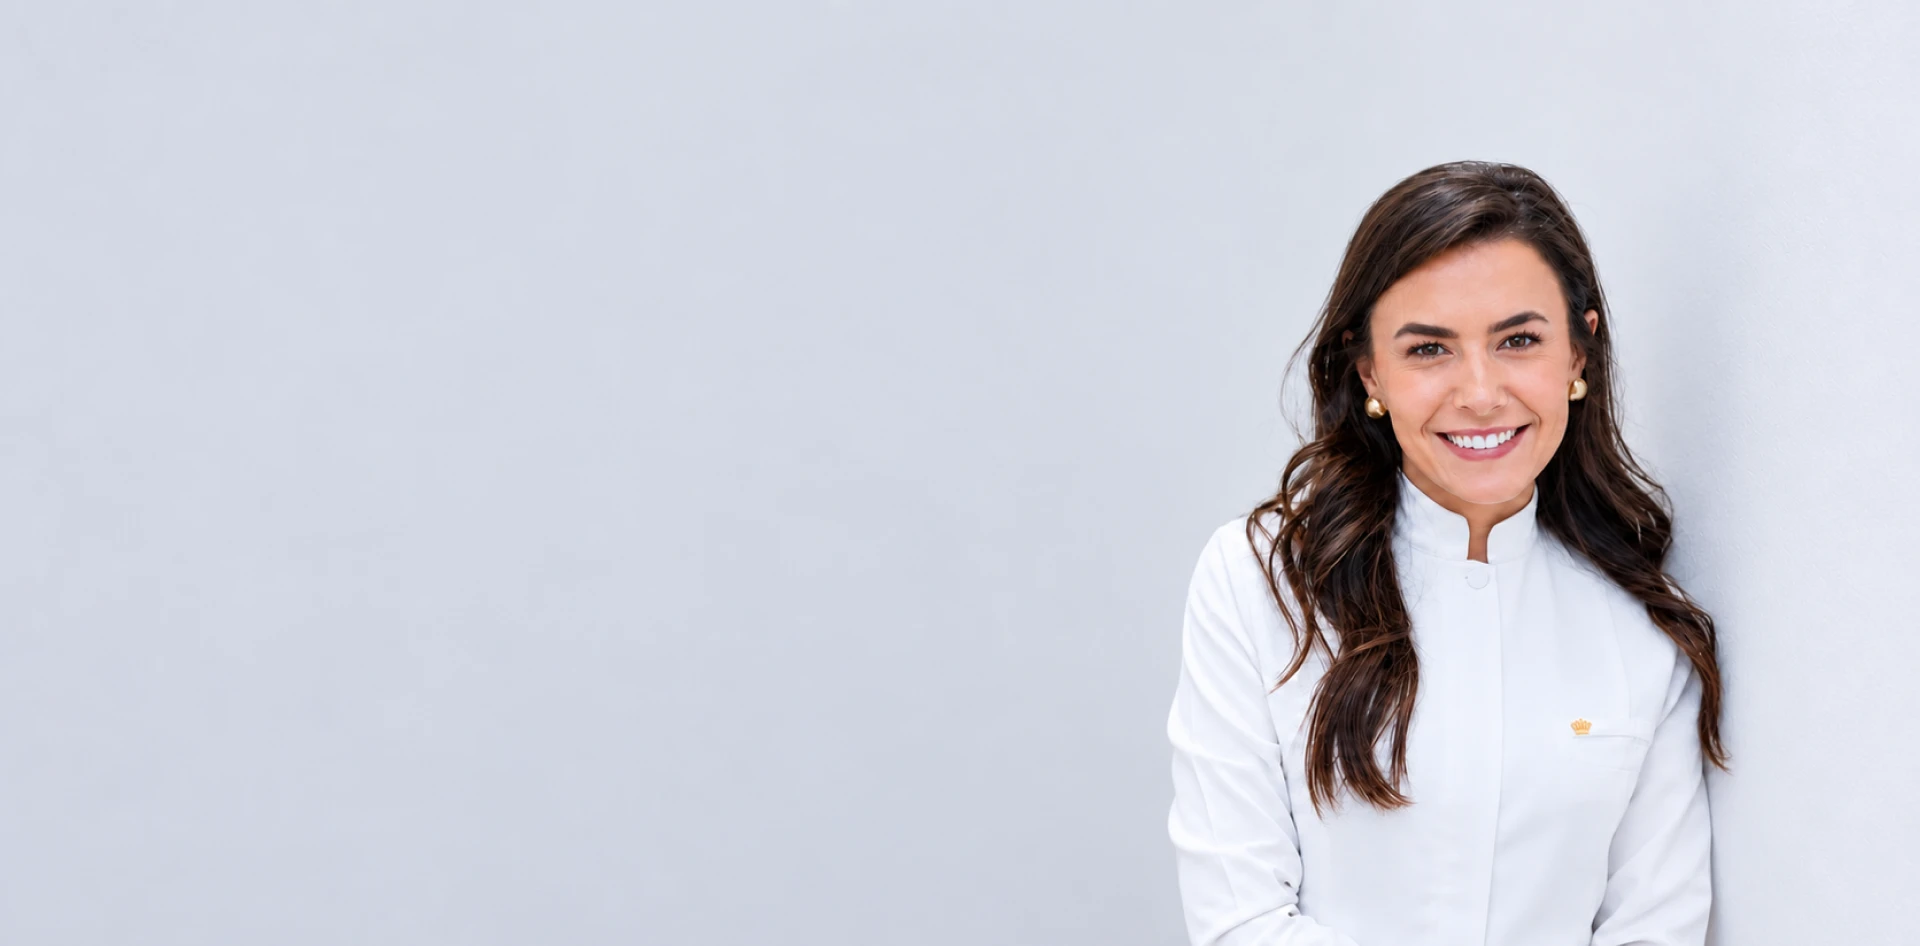
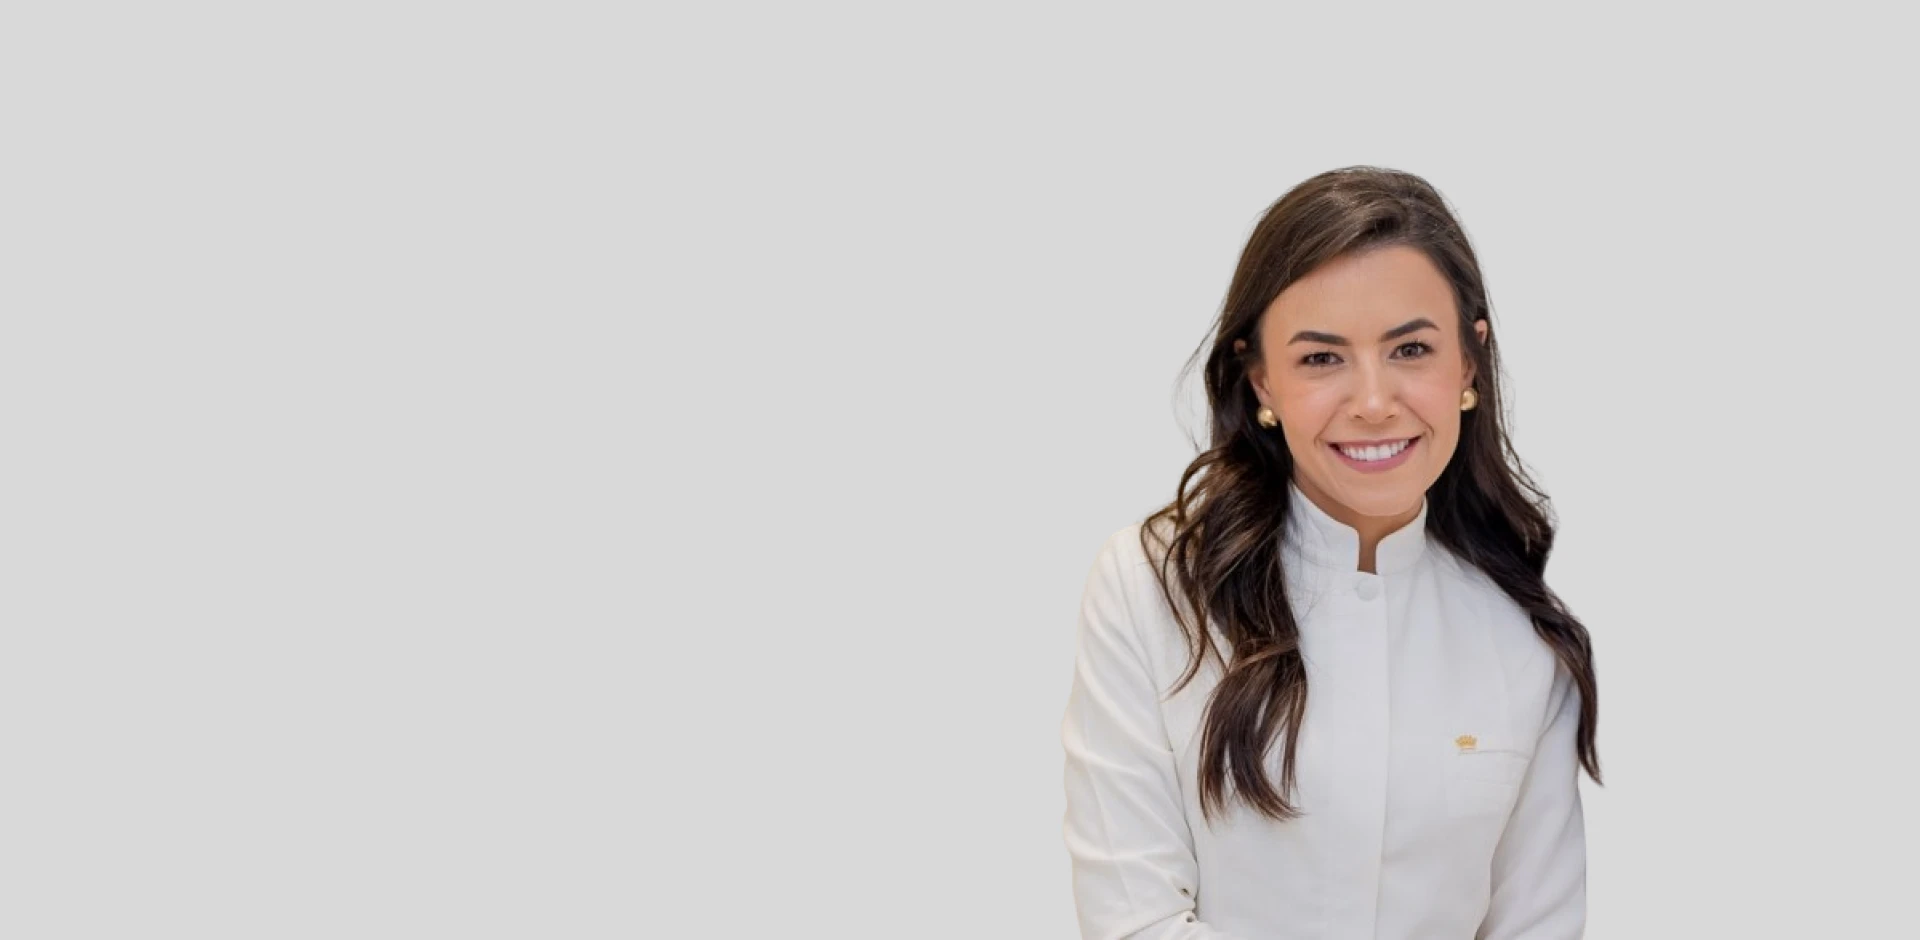
style: remove verde do fundo dos pilares, volta ao creme

Changed region(s): [[0.5312, 0.1543, 0.9062, 1.0], [0.9375, 0.0, 1.0, 1.0]]

diff --git a/src/styles/global.css b/src/styles/global.css
@@ -756,17 +756,7 @@ summary:focus-visible {
 .process-section {
   position: relative;
   isolation: isolate;
-  background: var(--sage-tint);
-}
-
-.process-bg {
-  position: absolute;
-  inset: 0;
-  width: 100%;
-  height: 100%;
-  object-fit: cover;
-  object-position: 50% 50%;
-  opacity: 0.18;
+  background: var(--cream);
 }
 
 .process-grid {

diff --git a/src/data/site.ts b/src/data/site.ts
@@ -57,7 +57,6 @@ export const site = {
     hero: "/images/camila_daer_nutricionista.webp",
     heroMobile: "/images/camila_daer.webp",
     about: "/images/camila_daer_nutricionista_sobre.webp",
-    processBg: "/images/nutricionista.webp",
   },
 } as const;
 
